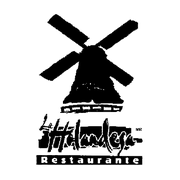
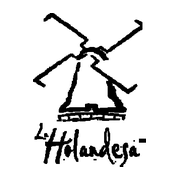
Versión 30.6.9: ícono del comandero solo con contorno y letras en negro
Claude-Session: https://claude.ai/code/session_01QiXp5pKvjoUfmzL1EtQSHV

Changed region(s): [[0.1667, 0.0556, 0.8333, 0.9444]]

diff --git a/comandero.html b/comandero.html
@@ -2,7 +2,7 @@
 <title>La Holandesa Comandero</title>
 <link rel="manifest" href="/manifest-comandero.webmanifest">
 <link rel="apple-touch-icon" href="/icono_comandero_180.png">
[2 lines of base64/hex data omitted]
 <meta name="apple-mobile-web-app-title" content="Holandesa Comandero">
 <meta name="application-name" content="Holandesa Comandero">
 <meta name="apple-mobile-web-app-capable" content="yes">

diff --git a/holandesa_monitor.py b/holandesa_monitor.py
@@ -14,8 +14,8 @@ import os, re, sys, json, gzip, glob, time, base64, struct, hashlib, secrets, th
 from http.server import ThreadingHTTPServer, BaseHTTPRequestHandler
 
 AQUI = os.path.dirname(os.path.abspath(__file__))
-VERSION = 82            # número interno que compara la actualización automática (siempre entero, sube de 1 en 1)
-VERSION_TXT = '30.6.8'    # versión que se muestra: 24.1, 24.2… y 25.0 cuando hay un cambio grande
+VERSION = 83            # número interno que compara la actualización automática (siempre entero, sube de 1 en 1)
+VERSION_TXT = '30.6.9'    # versión que se muestra: 24.1, 24.2… y 25.0 cuando hay un cambio grande
 REPO_RAW = 'https://raw.githubusercontent.com/Jorge-1639/monitor-holandesa/main/'
 CONFIG_FILE = os.path.join(AQUI, 'config.json')
 LOG_FILE = os.path.join(AQUI, 'monitor.log')

diff --git a/README.md b/README.md
@@ -140,3 +140,5 @@ comandero /comandero, personal /personal, descansos /descansos, compras /captura
 y Chrome no dejaba instalarlo aparte (salía "Crear acceso directo" con una letra).
 
 Versión 30.6.8 — íconos: Control Holandesa con el logo a todo color sobre blanco; Holandesa Comandero con el logo todo en negro sobre blanco.
+
+Versión 30.6.9 — ícono del comandero: solo el contorno del molino y las letras "La Holandesa" en negro, sin la mancha verde ni la franja de Restaurante, fondo blanco.
